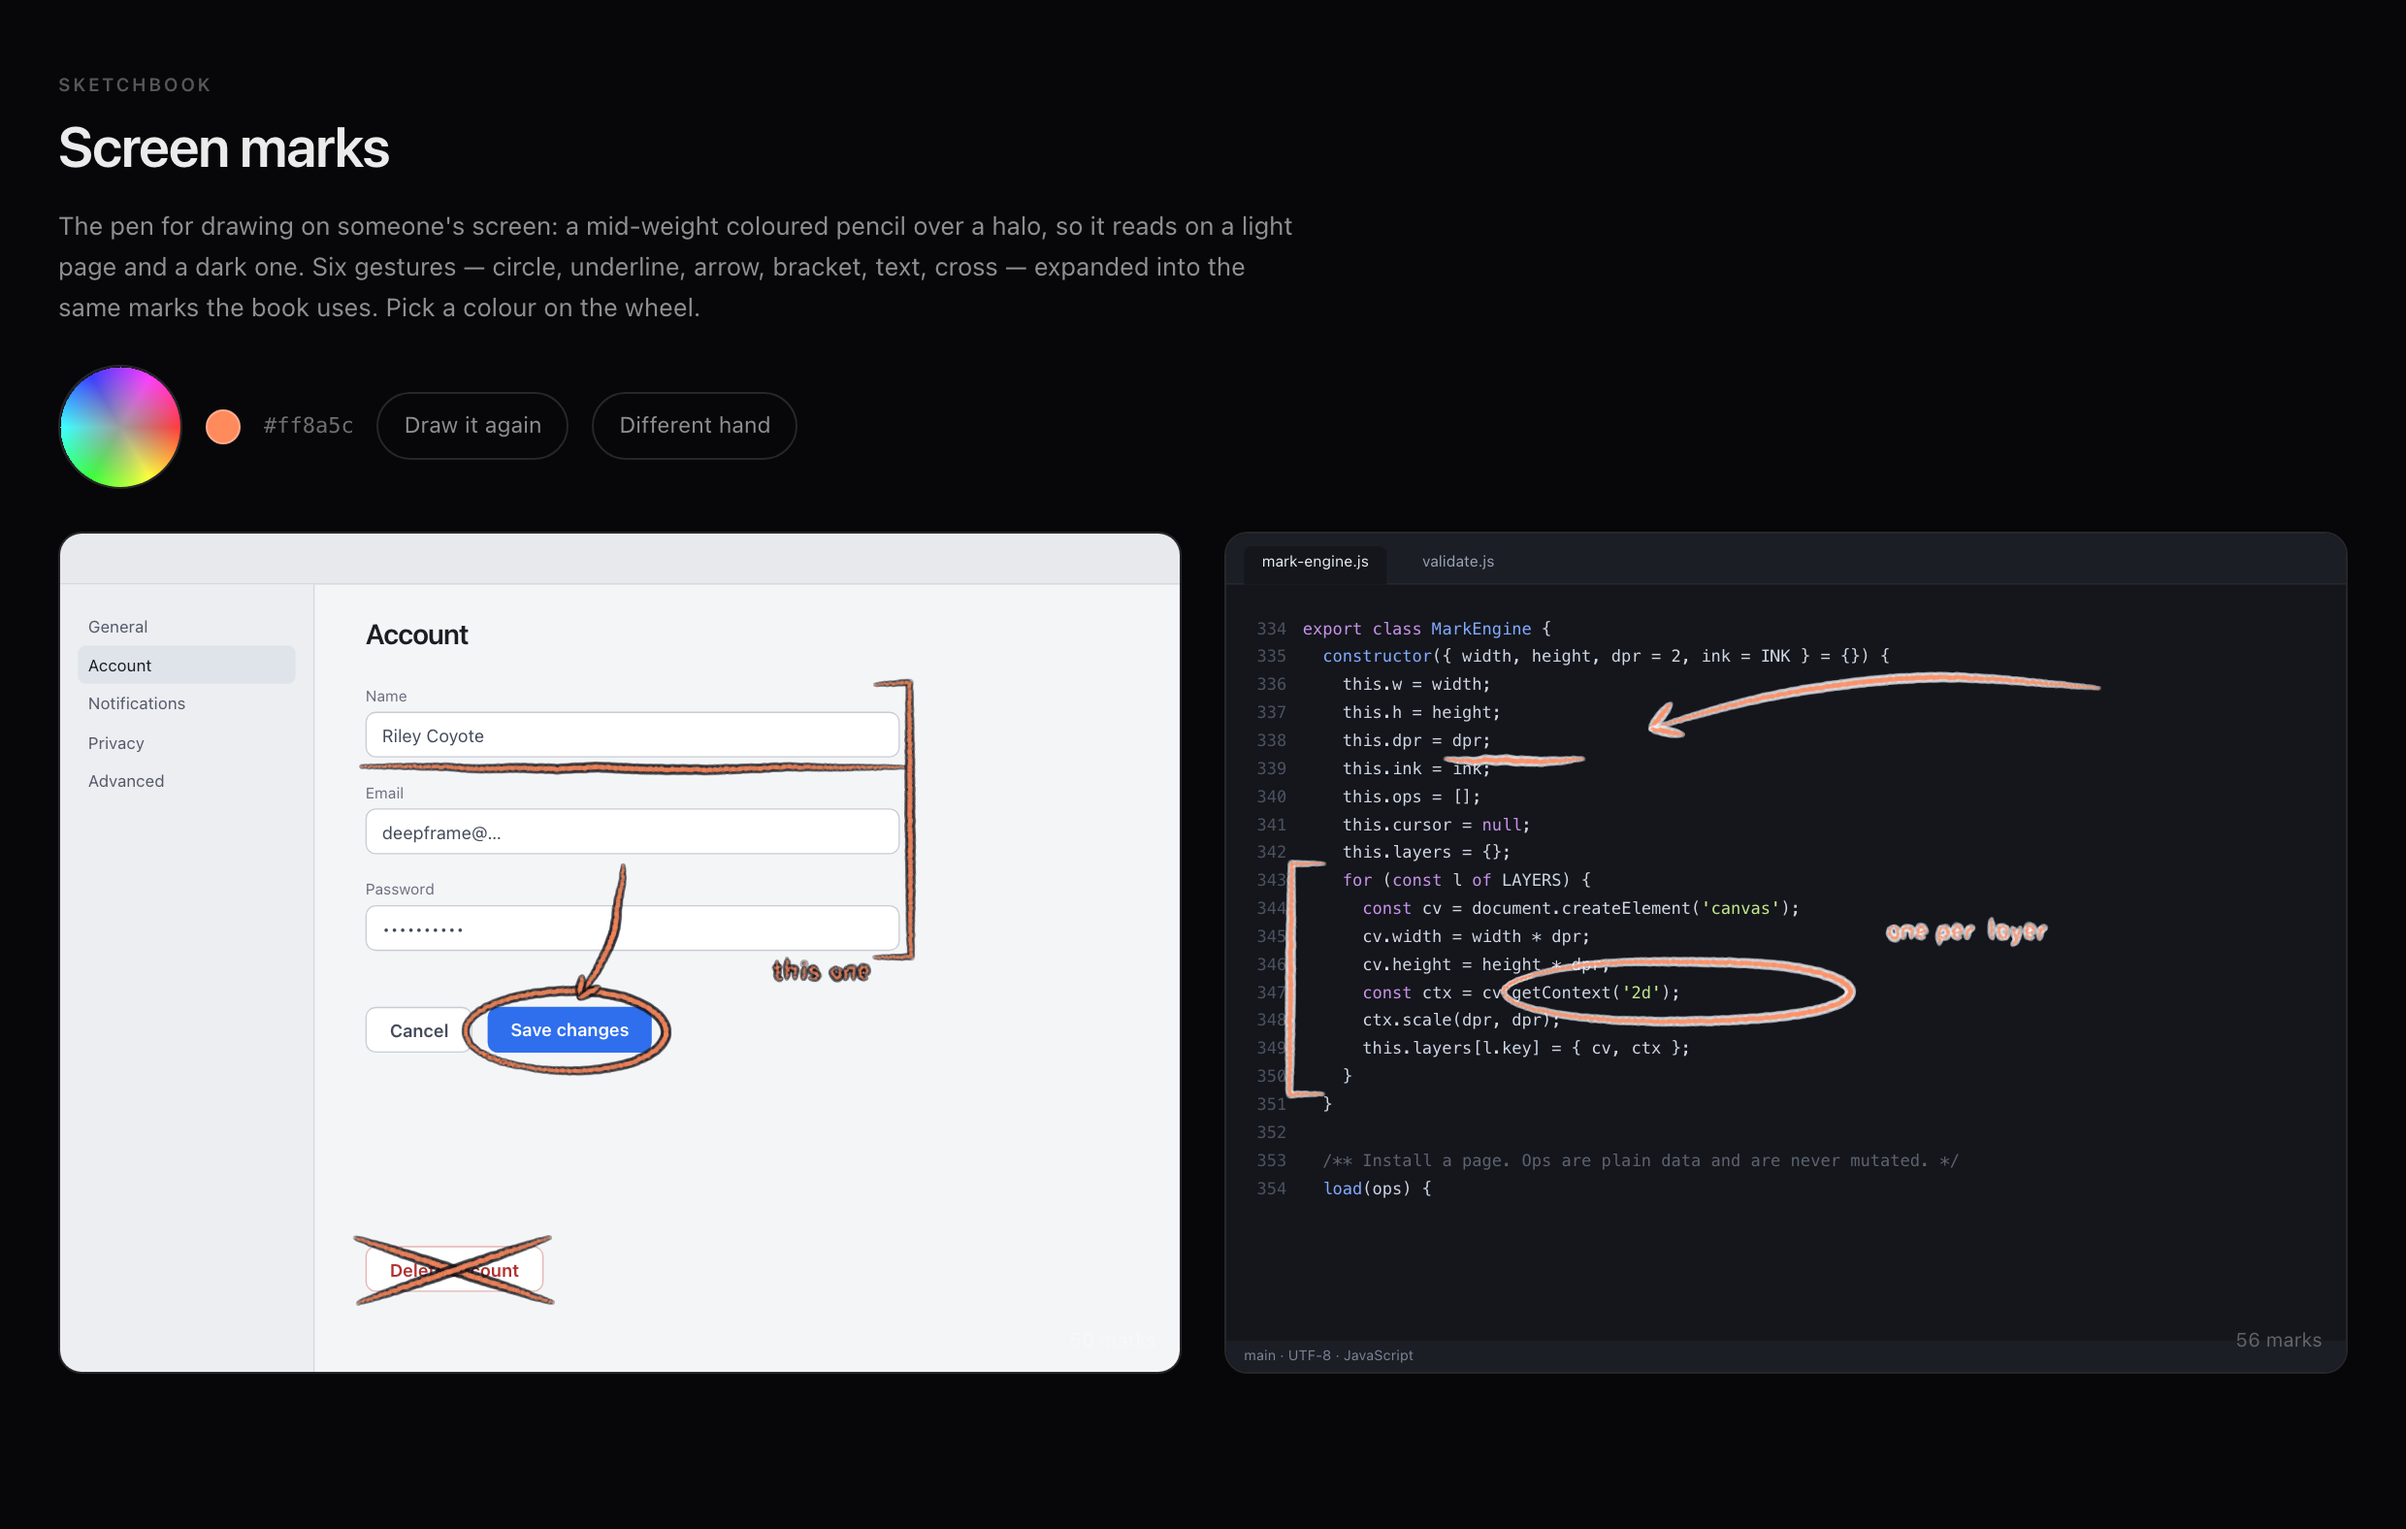
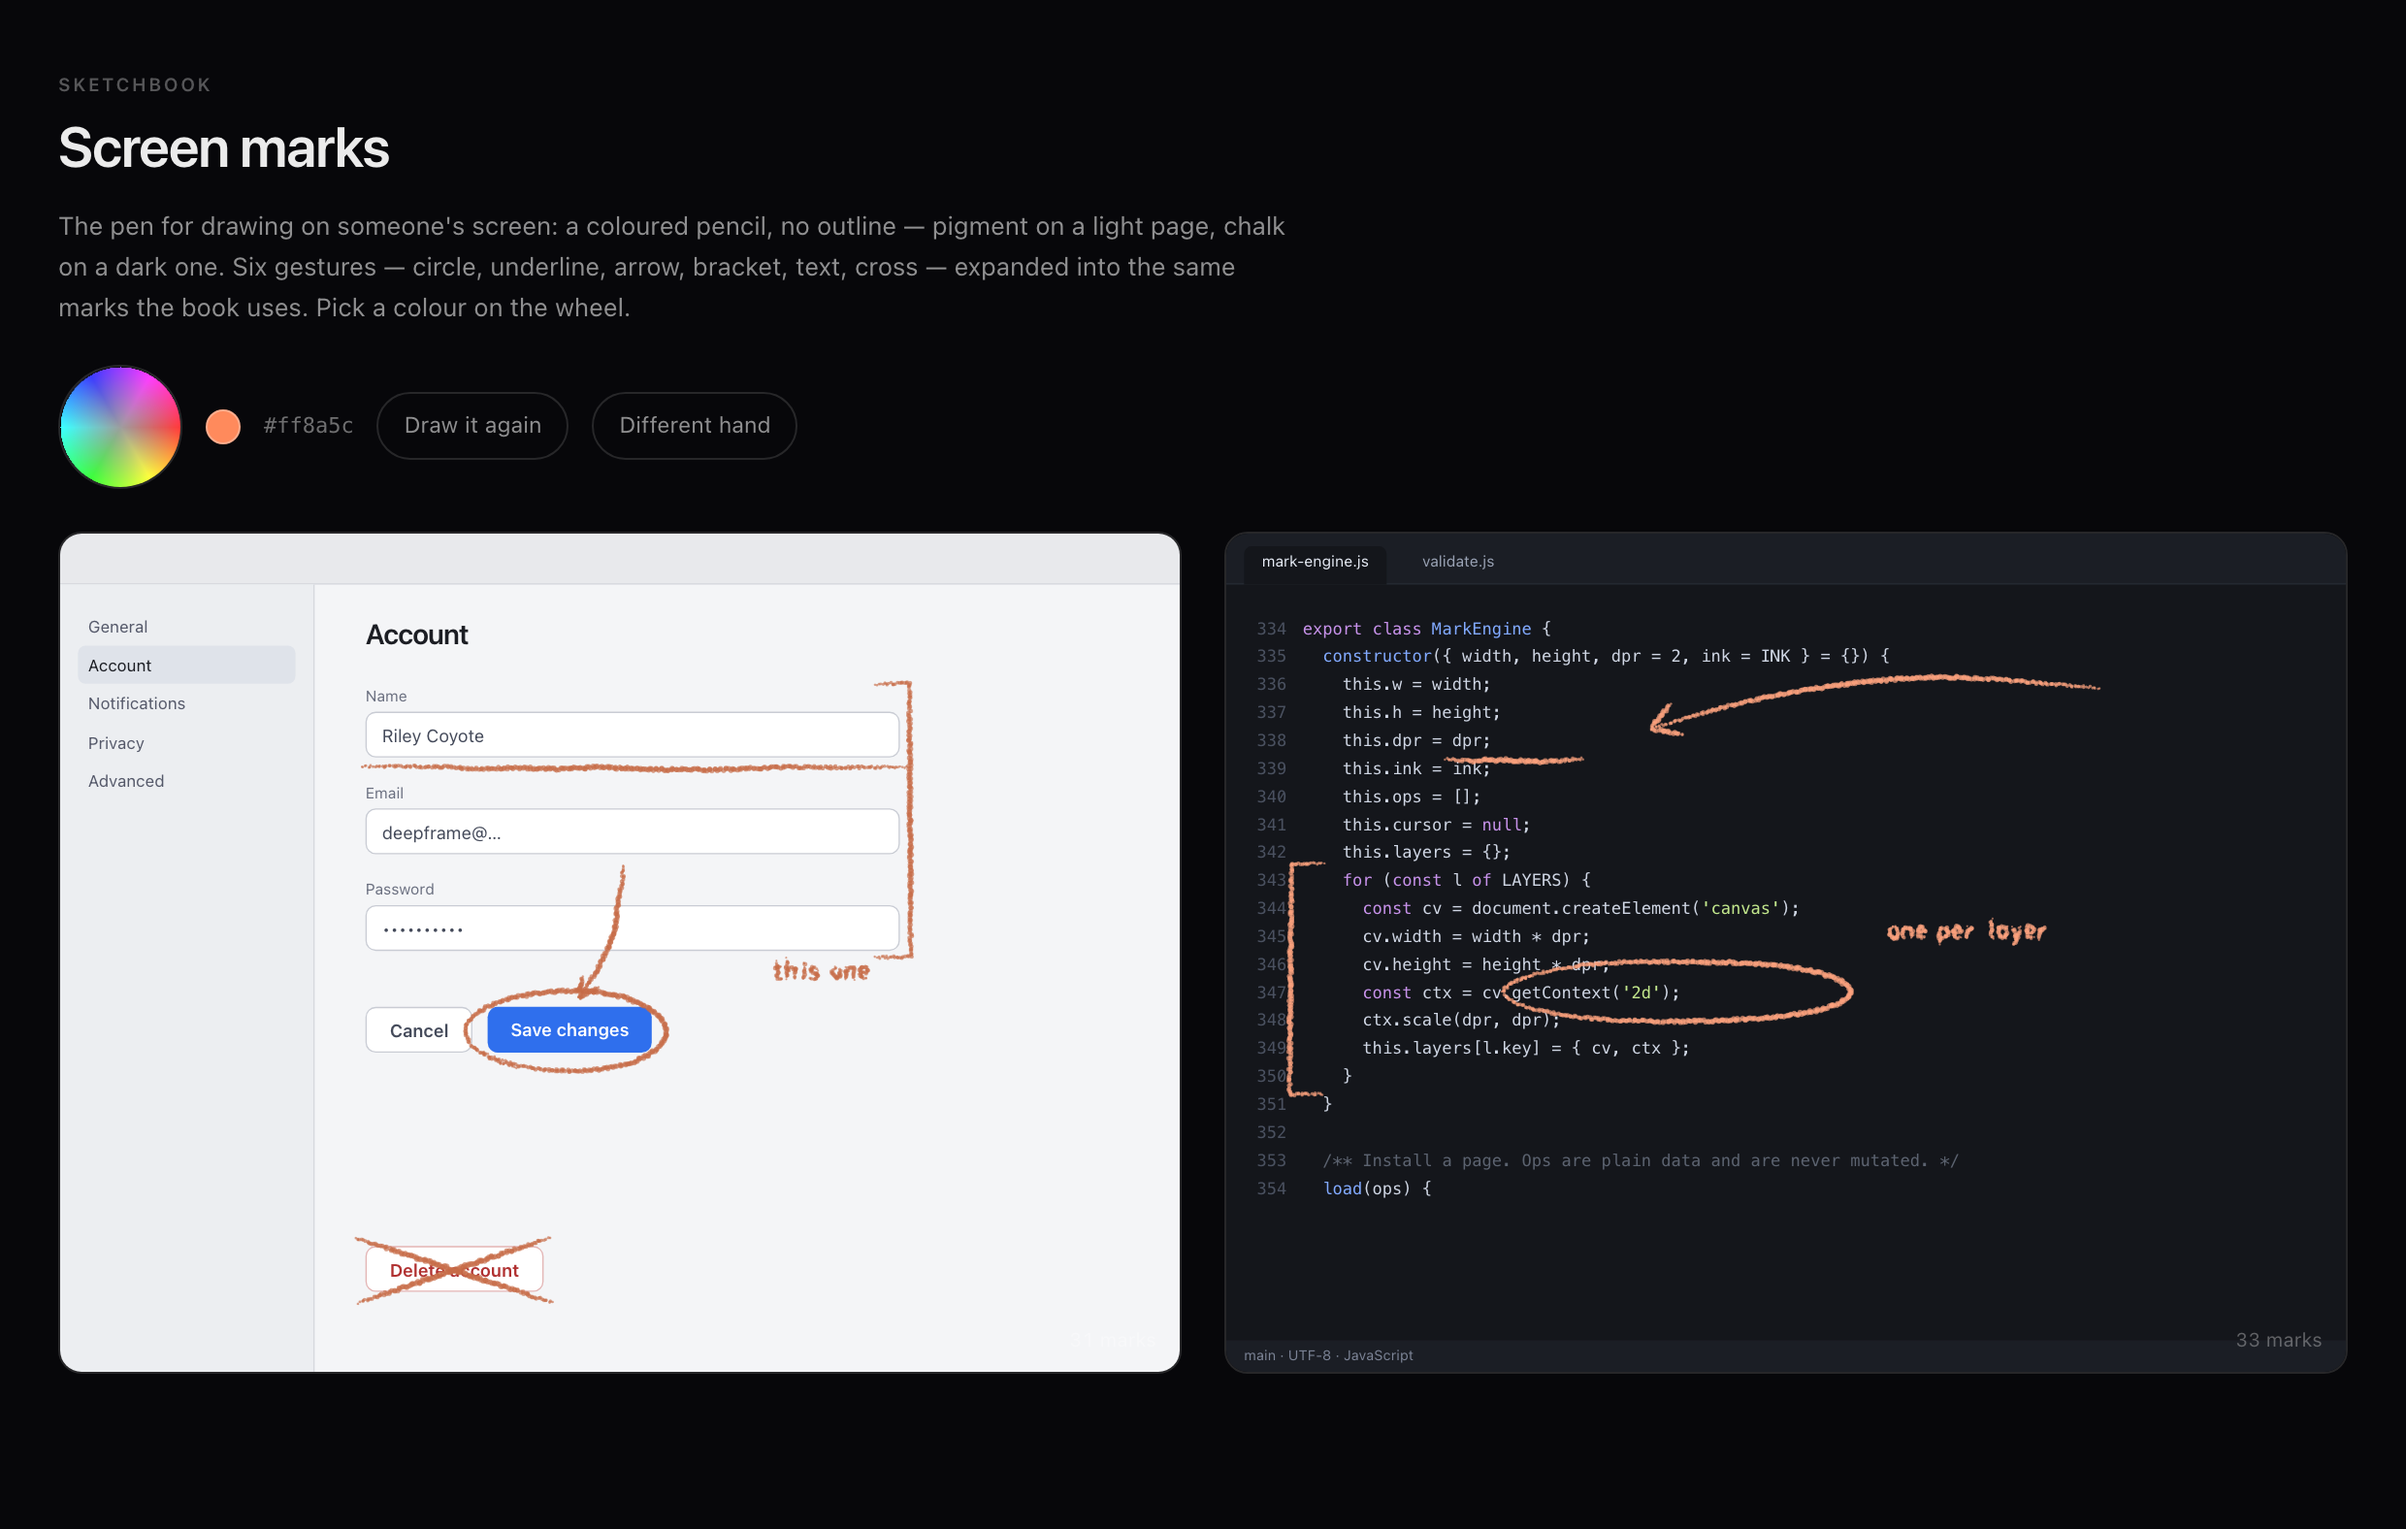
screen marks: a pencil, no outline
The halo brush is gone. The pen is denser with a rough edge and stays
continuous; its colour is tuned to the ground (darker on light, lifted
toward chalk on dark) so it reads without a border. Riley's call.

diff --git a/screen-marks.js b/screen-marks.js
@@ -2,8 +2,9 @@
  *
  * The reference for Prompt Ghost's screen marks (see its docs/SCREEN-MARKS.md).
  * A model says "circle that, arrow from this to that, write 'here'"; this turns
- * it into the engine's op list in the pen, with the hand's unevenness, each
- * stroke laid over a halo so it reads on any background.
+ * it into the engine's op list in the pen, with the hand's unevenness. No
+ * outline: the pencil reads by density, and its colour is tuned to the ground
+ * (pigment on a light page, chalk on a dark one).
  *
  *   import { expandGestures } from './screen-marks.js';
  *   const ops = expandGestures(gestures, { color: [255, 122, 89], ground: (x, y) => 'light' | 'dark' });
@@ -21,29 +22,30 @@
 
 import { OP, PAUSE, PHASE, jitter, seed, textOps } from './mark-engine.js';
 
-const DARK = [18, 20, 26];
-const LIGHT = [244, 247, 252];
 const WOB = 1.1;
 
-function haloFor(pts, opts) {
-  if (opts.halo === 'dark') return DARK;
-  if (opts.halo === 'light') return LIGHT;
+/** Ground under a path: 'light' or 'dark', from the caller's sampler. */
+function groundFor(pts, opts) {
+  if (opts.ground === 'light' || opts.ground === 'dark') return opts.ground;
   if (typeof opts.ground === 'function') {
-    /* sample the ground under the path: light ground → dark halo, and back */
-    let light = 0;
-    for (let i = 0; i < pts.length; i += Math.max(1, Math.floor(pts.length / 6))) if (opts.ground(pts[i][0], pts[i][1]) === 'light') light++;
-    return light * 2 >= Math.min(6, pts.length) ? DARK : LIGHT;
+    let light = 0, n = 0;
+    for (let i = 0; i < pts.length; i += Math.max(1, Math.floor(pts.length / 6))) { n++; if (opts.ground(pts[i][0], pts[i][1]) === 'light') light++; }
+    return light * 2 >= n ? 'light' : 'dark';
   }
-  return DARK;
+  return 'light';
 }
 
-/** One pen stroke over its halo. */
+/** A pencil's colour on a ground: pigment on white, chalk on black. No outline. */
+export function tone(color, ground) {
+  const k = ground === 'light' ? 0.78 : 1;                 /* darker on a light page */
+  const lift = ground === 'dark' ? 0.22 : 0;               /* lighter, chalkier on a dark one */
+  return color.map((v) => Math.round(Math.min(255, v * k + (255 - v) * lift)));
+}
+
+/** One pencil stroke. */
 export function penStroke(pts, w, color, opts = {}, wob = WOB) {
   const p = jitter(pts, wob);
-  return [
-    OP('s', p, 'line', 'halo', w, haloFor(p, opts)),
-    OP('s', p, 'line', 'pen', w, color),
-  ];
+  return [OP('s', p, 'line', 'pen', w, tone(color, groundFor(p, opts)))];
 }
 
 const center = (r) => (r.w === undefined ? [r.x, r.y] : [r.x + r.w / 2, r.y + r.h / 2]);
@@ -141,18 +143,16 @@ export function cross(target, color, opts, k) {
 }
 
 export function text(at, str, color, opts, size = 16) {
-  const halo = textOps(str, at.x, at.y, size, 'line', 'halo', 0.5, 0.78);
-  const c = haloFor(halo.flatMap((o) => o.pts), opts);
-  for (const o of halo) o.c = c;
-  const ink = textOps(str, at.x, at.y, size, 'line', 'pen', 0.5, 0.62);
-  for (const o of ink) o.c = color;
-  return [...halo, ...ink];
+  const ink = textOps(str, at.x, at.y, size, 'line', 'pen', 0.5, 0.85);
+  const c = tone(color, groundFor(ink.flatMap((o) => o.pts), opts));
+  for (const o of ink) o.c = c;
+  return ink;
 }
 
 /**
  * Expand a list of gestures into marks. `opts.color` is the pen (the user's
- * wheel); a gesture's own `color` overrides it. `opts.ground(x, y)` returns
- * 'light' or 'dark' for the halo; or set `opts.halo` to force one.
+ * wheel); a gesture's own `color` overrides it. `opts.ground` is 'light',
+ * 'dark', or a function (x, y) → either, used to tune the pencil's tone.
  */
 export function expandGestures(gestures, opts = {}) {
   const color = opts.color || [150, 205, 255];

diff --git a/mark-engine.js b/mark-engine.js
@@ -41,11 +41,10 @@ export const BRUSHES = {
   stipple:  { w: 0.85, alpha: 0.34,  swell: 0.2,  taper: 1,   spacing: 6.2, scatter: 2.9 },
   charcoal: { w: 2.4,  alpha: 0.3,   swell: 0.9,  taper: 0.8, spacing: 1.6, scatter: 1.1, dir: 0.55 },
   eraser:   { w: 3.4,  alpha: 0.62,  swell: 0.42, taper: 1,   spacing: 1.3, scatter: 0.18, sub: true },
-  /* for screens: a mid-weight coloured pencil that reads on any background.
-   * continuous (no brk), a little tooth, colour per mark (op.c). The halo is
-   * the same path laid down first, wide and faint, in the ground's opposite. */
-  pen:      { w: 2.4,  alpha: 0.55,  swell: 0.5,  taper: 1.1, spacing: 1.2, scatter: 0.5 },
-  halo:     { w: 5.3,  alpha: 0.32,  swell: 0.5,  taper: 1.1, spacing: 1.2, scatter: 0.3 },
+  /* for screens: a coloured pencil. dense core, rough edge from the tooth,
+   * continuous. no outline — it reads on any ground by density, and the
+   * caller tunes the colour to the ground (pigment on white, chalk on black). */
+  pen:      { w: 2.7,  alpha: 0.66,  swell: 0.45, taper: 1.1, spacing: 1.0, scatter: 0.9 },
 };
 
 /* Four layers, composited in this order. The split exists so tone can be

diff --git a/screen-demo.html b/screen-demo.html
@@ -55,7 +55,7 @@
 <main>
   <div class="label">sketchbook</div>
   <h1>Screen marks</h1>
-  <p>The pen for drawing on someone's screen: a mid-weight coloured pencil over a halo, so it reads on a light page and a dark one. Six gestures — circle, underline, arrow, bracket, text, cross — expanded into the same marks the book uses. Pick a colour on the wheel.</p>
+  <p>The pen for drawing on someone's screen: a coloured pencil, no outline — pigment on a light page, chalk on a dark one. Six gestures — circle, underline, arrow, bracket, text, cross — expanded into the same marks the book uses. Pick a colour on the wheel.</p>
 
   <div class="row">
     <canvas id="wheel" width="128" height="128" aria-label="pen colour"></canvas>
